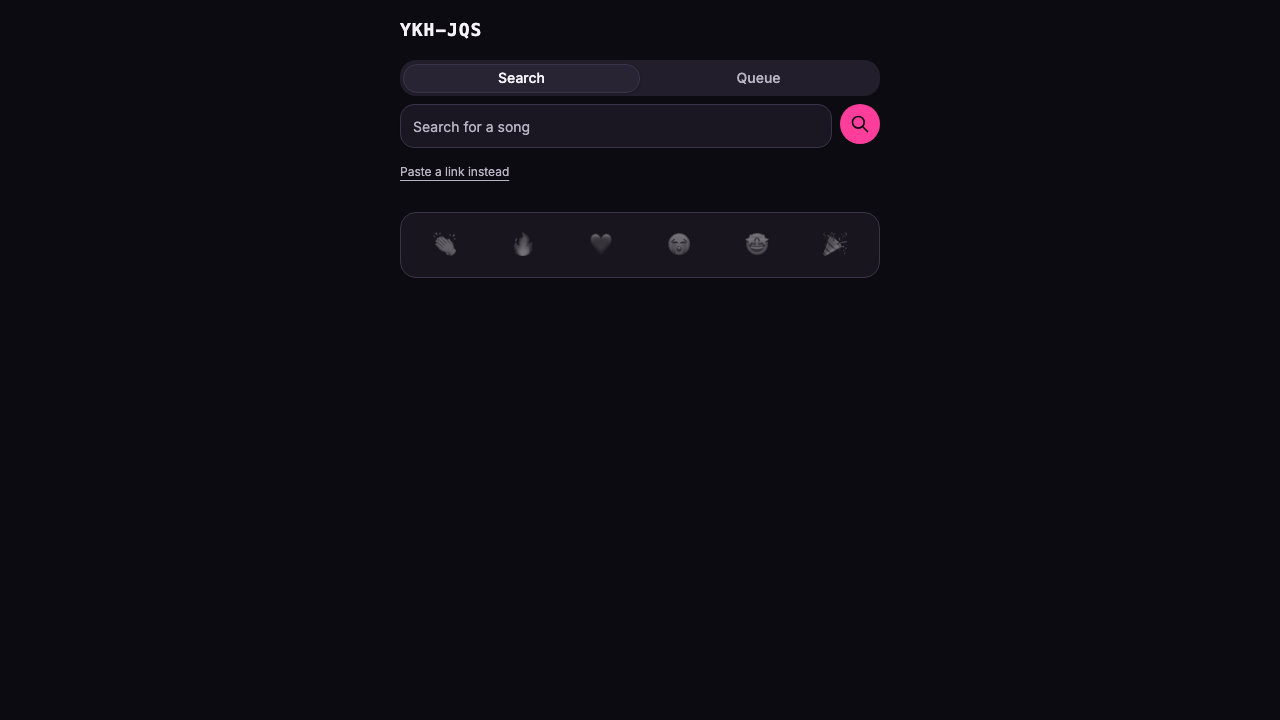
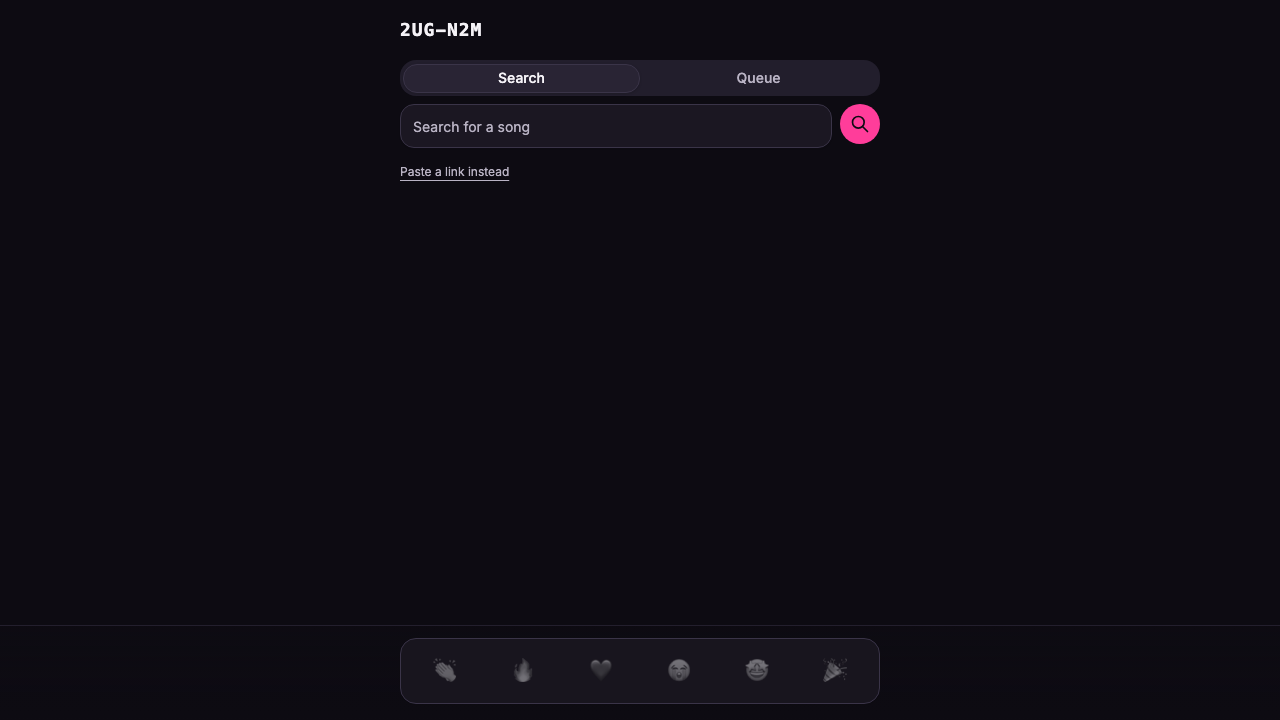
fix(reactions): beta annotation pass — floating bottom bar, opaque fly-ups, canvas-confetti celebration
- Guest phone: ReactionBar + PositionBar move into a fixed viewport-bottom band
  (backdrop-blur gradient, max-w-lg aligned) with a ResizeObserver-driven spacer
  so tab content never hides behind it; visible on every tab.
- Fly-up emoji hold opacity 1 until 85% of flight (was fading from 12%).
- CelebrationBurst rewritten on canvas-confetti (two corner cannons + delayed
  center burst, theme palette, disableForReducedMotion + caller gate kept;
  dead room-confetti-fall keyframes removed). Annotated screenshots re-captured
  and visually re-verified live; all 4 pins superseded.

diff --git a/app/components/room/celebration-burst.tsx b/app/components/room/celebration-burst.tsx
@@ -1,47 +1,54 @@
-import { useEffect, useMemo, useRef } from "react";
-
-import { cn } from "@/lib/utils";
+import { useEffect, useRef } from "react";
+import confetti, { type CreateTypes } from "canvas-confetti";
 
 export interface CelebrationBurstProps {
   /** Render the burst. Caller flips this to `true` for exactly one render
    * (the lobby→playing transition, once per session) and back to `false`
    * via `onDone`. */
   readonly show: boolean;
-  /** Called ~1.5s after `show` becomes true — caller resets `show` to `false`. */
+  /** Called once the burst has finished — caller resets `show` to `false`. */
   readonly onDone: () => void;
 }
 
-const PARTICLE_COLORS = ["bg-primary", "bg-secondary", "bg-accent-end", "bg-success"];
-const PARTICLE_COUNT = 28;
-const DURATION_MS = 1500;
+/** Same hex stops as the `--primary` / `--secondary` / `--accent-end` /
+ * `--success` custom properties in app.css, duplicated here because
+ * canvas-confetti paints on a raw 2D canvas (no access to Tailwind
+ * classes/CSS vars) — kept in sync by hand if those tokens ever move. */
+const PALETTE = {
+  dark: ["#ff3d9a", "#a238ff", "#ffd23d", "#2fe6b8"],
+  light: ["#d31d70", "#7b1fd6", "#c98a00", "#087a5c"],
+} as const;
+
+const DURATION_MS = 1800;
+/** `next-themes` (attribute="class", defaultTheme="dark") stamps `dark` on
+ * `<html>` — read it directly rather than threading theme context through
+ * this one-shot effect component. */
+function currentPalette(): string[] {
+  if (typeof document === "undefined") return [...PALETTE.dark];
+  return document.documentElement.classList.contains("dark") ? [...PALETTE.dark] : [...PALETTE.light];
+}
 
 /**
- * One-shot "room goes live" celebration — a brief hand-rolled confetti
- * burst (no library) for the lobby→playing transition. Per design.md §6,
- * celebration moments are rare and this is the only one in Phase 4: it must
- * fire once per session, never on subsequent songs.
+ * One-shot "room goes live" celebration for the lobby→playing transition.
+ * Per design.md §6, celebration moments are rare and this is the only one
+ * in Phase 4: it must fire once per session, never on subsequent songs.
  *
- * Reduced-motion handling is split in two, deliberately: the CSS
- * `animate-confetti-fall` keyframe duration collapses under the global
- * `prefers-reduced-motion` net in app.css, but this component is mounted
- * via a JS state flip (not pure CSS), so the caller (`$code.tsx`) also
- * checks `prefers-reduced-motion` before ever setting `show` — a
- * reduced-motion viewer never sees the burst mount at all, not just a
- * duration-zero version of it.
+ * Built on `canvas-confetti` (dedicated `confetti.create()` instance bound
+ * to this component's own fixed, pointer-events-none canvas) rather than
+ * fighting React with DOM particles — the library owns its canvas'
+ * pixels/rAF loop entirely, so it never conflicts with React's reconciler
+ * or the other fixed-position overlays (`NowUpOverlay`, `ReactionOverlay`,
+ * `ReactionRecap`) sharing this stacking context.
+ *
+ * Reduced-motion handling is deliberately doubled: the caller
+ * (`$code.tsx`) checks `prefers-reduced-motion` before ever setting `show`
+ * true, so a reduced-motion viewer never mounts this component at all —
+ * and `disableForReducedMotion: true` below is belt-and-braces in case
+ * this component is ever reused from a caller that forgets the gate.
  */
 export function CelebrationBurst({ show, onDone }: CelebrationBurstProps) {
-  const particles = useMemo(
-    () =>
-      Array.from({ length: PARTICLE_COUNT }, (_, i) => ({
-        id: i,
-        left: Math.round(Math.random() * 100),
-        delay: Math.round(Math.random() * 300),
-        color: PARTICLE_COLORS[i % PARTICLE_COLORS.length],
-      })),
-    // Regenerate positions only when a new burst starts.
-    // eslint-disable-next-line react-hooks/exhaustive-deps
-    [show]
-  );
+  const canvasRef = useRef<HTMLCanvasElement | null>(null);
+  const instanceRef = useRef<CreateTypes | null>(null);
 
   // Ref-stash the callback so the timer effect stays keyed on `show` alone
   // without stale-capturing a caller's `onDone`.
@@ -51,29 +58,66 @@ export function CelebrationBurst({ show, onDone }: CelebrationBurstProps) {
   });
 
   useEffect(() => {
-    if (!show) return;
-    const timer = setTimeout(() => onDoneRef.current(), DURATION_MS);
-    return () => clearTimeout(timer);
+    if (!show || !canvasRef.current) return;
+
+    const colors = currentPalette();
+    const instance = confetti.create(canvasRef.current, {
+      resize: true,
+      useWorker: true,
+    });
+    instanceRef.current = instance;
+
+    const shared = { colors, disableForReducedMotion: true } as const;
+
+    // Two side cannons from the bottom corners, angled inward...
+    void instance({
+      ...shared,
+      particleCount: 70,
+      angle: 60,
+      spread: 55,
+      startVelocity: 55,
+      origin: { x: 0, y: 1 },
+    });
+    void instance({
+      ...shared,
+      particleCount: 70,
+      angle: 120,
+      spread: 55,
+      startVelocity: 55,
+      origin: { x: 1, y: 1 },
+    });
+
+    // ...then a wide center burst a beat later, so the room reads as one
+    // escalating moment rather than three simultaneous pops.
+    const centerTimer = setTimeout(() => {
+      void instance({
+        ...shared,
+        particleCount: 110,
+        spread: 100,
+        startVelocity: 45,
+        scalar: 1.15,
+        origin: { x: 0.5, y: 0.4 },
+      });
+    }, 200);
+
+    const doneTimer = setTimeout(() => onDoneRef.current(), DURATION_MS);
+
+    return () => {
+      clearTimeout(centerTimer);
+      clearTimeout(doneTimer);
+      instance.reset();
+      instanceRef.current = null;
+    };
   }, [show]);
 
   if (!show) return null;
 
   return (
-    <div
+    <canvas
+      ref={canvasRef}
       aria-hidden
       data-testid="room-celebration-burst"
-      className="pointer-events-none fixed inset-0 z-50 overflow-hidden"
-    >
-      {particles.map((particle) => (
-        <span
-          key={particle.id}
-          style={{ left: `${particle.left}%`, animationDelay: `${particle.delay}ms` }}
-          className={cn(
-            "animate-confetti-fall absolute top-0 size-3 rounded-sm",
-            particle.color
-          )}
-        />
-      ))}
-    </div>
+      className="pointer-events-none fixed inset-0 z-50"
+    />
   );
 }

diff --git a/app/routes/join/$code.tsx b/app/routes/join/$code.tsx
@@ -189,6 +189,26 @@ function JoinRoomView({
       reactionOverlayRef.current?.burst(msg.emoji, msg.count),
   });
 
+  // The reaction/position stack below is `fixed` to the viewport bottom (not
+  // `sticky`) so it stays put regardless of tab content length, instead of
+  // parking mid-screen after short content (beta feedback). Its rendered
+  // height varies — `ReactionBar` is always mounted, `PositionBar` mounts
+  // only once the guest has something queued — so a `ResizeObserver` tracks
+  // the real height and a same-height spacer keeps tab content (search
+  // results, queue list) from ever scrolling under it.
+  const bottomBarRef = useRef<HTMLDivElement>(null);
+  const [bottomBarHeight, setBottomBarHeight] = useState(0);
+
+  useEffect(() => {
+    const node = bottomBarRef.current;
+    if (!node) return;
+    const observer = new ResizeObserver(([entry]) => {
+      if (entry) setBottomBarHeight(entry.contentRect.height);
+    });
+    observer.observe(node);
+    return () => observer.disconnect();
+  }, []);
+
   // Host ended the party — the DO broadcast `room.closed`. Re-run the
   // loader so this route renders the friendly closed state instead of a
   // stale live queue.
@@ -273,12 +293,22 @@ function JoinRoomView({
         )}
       </Tabs>
 
-      <div className="sticky bottom-0 z-10 flex flex-col gap-2">
-        <ReactionBar
-          send={send}
-          disabled={state.playback?.status !== "playing"}
-        />
-        <PositionBar queue={state.queue} ownUserId={ownUserId} />
+      {/* Spacer — reserves flow space equal to the fixed bar's real height so
+          the last item in any tab (search results, queue list, controls)
+          never ends up hidden underneath it. */}
+      <div aria-hidden="true" style={{ height: bottomBarHeight }} />
+
+      <div
+        ref={bottomBarRef}
+        className="fixed inset-x-0 bottom-0 z-20 border-t border-border/50 bg-gradient-to-t from-background via-background/95 to-background/70 pt-3 backdrop-blur"
+      >
+        <div className="mx-auto flex max-w-lg flex-col gap-2 px-4 pb-4">
+          <ReactionBar
+            send={send}
+            disabled={state.playback?.status !== "playing"}
+          />
+          <PositionBar queue={state.queue} ownUserId={ownUserId} />
+        </div>
       </div>
     </div>
   );

diff --git a/app/app.css b/app/app.css
@@ -286,26 +286,6 @@ body {
   }
 }
 
-/* Room host TV screen (Phase 4) — one-shot "room goes live" confetti burst.
-   Hand-rolled, no library, per design.md §6 (celebration moments are rare).
-   Duration collapses under the global prefers-reduced-motion net above; the
-   JS trigger in app/routes/room/$code.tsx additionally skips firing this at
-   all for reduced-motion users, rather than relying on duration alone. */
-@keyframes room-confetti-fall {
-  0% {
-    transform: translateY(-10px) rotate(0deg);
-    opacity: 1;
-  }
-  100% {
-    transform: translateY(100vh) rotate(360deg);
-    opacity: 0;
-  }
-}
-
-@utility animate-confetti-fall {
-  animation: room-confetti-fall 1.4s ease-in forwards;
-}
-
 /* Lobby "who's here" roster chips ticking in as guests join — new DOM nodes
    (new roster userId) play this once on mount; existing chips keep their
    node identity across re-renders and never replay it. */
@@ -413,6 +393,11 @@ body {
     opacity: 0;
   }
   12% {
+    opacity: 1;
+  }
+  /* Hold full opacity through the flight (beta annotation: reactions at 100%)
+     — fade only over the last stretch so the exit off-screen isn't a hard cut. */
+  85% {
     opacity: 1;
   }
   100% {

diff --git a/app/components/join/position-bar.tsx b/app/components/join/position-bar.tsx
@@ -24,7 +24,7 @@ export function PositionBar({ queue, ownUserId }: PositionBarProps) {
   return (
     <div
       data-testid="join-position-bar"
-      className="sticky bottom-0 z-10 flex items-center gap-2 rounded-lg border border-primary/30 bg-card/95 px-3 py-2 text-sm shadow-sm backdrop-blur"
+      className="flex items-center gap-2 rounded-lg border border-primary/30 bg-card/95 px-3 py-2 text-sm shadow-sm backdrop-blur"
     >
       <IconPlaylistAdd className="size-4 shrink-0 text-primary" />
       <p className="min-w-0 flex-1 truncate font-medium text-foreground">
